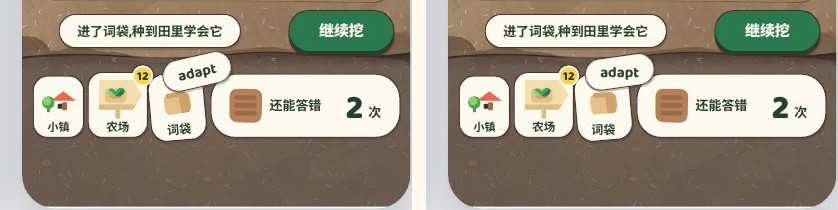
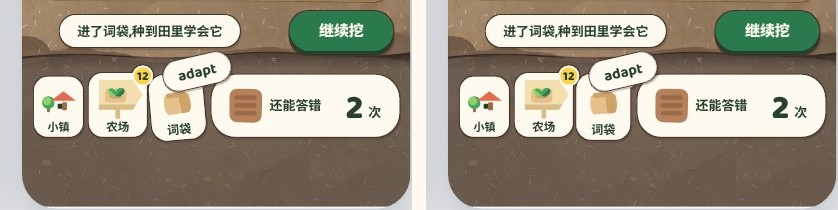
Straighten the bag button and tilt the falling word tag again
The previous change misread the owner: the falling word tag is meant to
stay tilted, text included, and it is the bag button that should sit
upright. The button now only grows to 1.1x when a missed word drops in,
and the tag is back to its 13 degree tilt. Decision 0030 and the docs
state the corrected rule.

Claude-Session: https://claude.ai/code/session_01KLGgNjxFgtRsY37w3UzLNc

diff --git a/docs/design/cel-screens/cel-screens.js b/docs/design/cel-screens/cel-screens.js
@@ -378,34 +378,24 @@
   }
   /**
    * 矿洞底部的那一排:小镇、去农场的路牌、词袋、还能答错几次。排法和彩纸那一屏(../mine-screens/screens.js 的 bar)相同。
-   * 自己排一遍只为了一处:pop 为真时(词刚掉进词袋)词袋的按钮弹一下,彩纸是整张连图标带字一起歪;
-   * 这里只让纸片歪,图标、"词袋"两个字和角标都是正的(负责人 2026-11-22:卡片可以歪,上面的文字和图标不歪)。
+   * 自己排一遍只为了一处:pop 为真时(词刚掉进词袋)词袋的按钮弹一下,彩纸是放大再歪 5 度;
+   * 这里只放大,不歪(负责人 2026-11-22:词袋正过来。按钮上有字和图标,歪了不好认)。
    */
   function mineBar(sc, pop) {
     var L = new k.Layer(),
-      bag = sc.bag.length,
       x = 12;
     L.add(k.tool(x, 714, '小镇', S.kit.townIcon));
     x += 55;
     L.add(k.signpost(x, 710, '农场', k.farmIcon, sc.thirsty || null, 1));
     x += 64;
-    if (!pop) L.add(k.tool(x, 714, '词袋', k.wordBagIcon, bag || null));
-    else {
-      // 弹一下:绕按钮下半截的一点放大到 1.1 倍;纸片另外再转 -5 度
-      var px = x + 24,
-        py = 744,
-        up = 'translate(' + K.f(-px * 0.1) + ' ' + K.f(-py * 0.1) + ') scale(1.1)',
-        a = (-5 * Math.PI) / 180,
-        // 角标跟着纸片的右上角走,但它自己不转
-        bx = (x + 45 - px) * 1.1,
-        by = (717 - py) * 1.1,
-        b = k.badge(px + bx * Math.cos(a) - by * Math.sin(a), py + bx * Math.sin(a) + by * Math.cos(a), bag);
-      L.s +=
-        g('rotate(-5 ' + px + ' ' + py + ') ' + up, K.rrect(x, 714, 49, 60, 14, K.C.white)) +
-        g(up, k.wordBagIcon(x + 24.5, 714 + 60 * 0.39)) +
-        b.shape;
-      L.t += g(up, K.txt(x + 24.5, 714 + 60 - 5.4, '词袋', 11, K.C.ink, { a: 'middle', w: 700 })) + b.text;
+    var b = k.tool(x, 714, '词袋', k.wordBagIcon, sc.bag.length || null);
+    if (pop) {
+      // 绕按钮下半截的一点放大到 1.1 倍
+      var up = 'translate(' + K.f(-(x + 24) * 0.1) + ' -74.4) scale(1.1)';
+      b.shape = g(up, b.shape);
+      b.text = g(up, b.text);
     }
+    L.add(b);
     x += 59;
     L.add(k.roomPlate(x, 712, 378 - x, 62, sc.allowance));
     return L.out();
@@ -490,8 +480,8 @@
       var wt = S.kit.pill(0, 0, v.word, 15, K.C.white, K.C.ink, 13, 30);
       U.add(S.kit.pill(128, 652, '进了词袋,种到田里学会它', 13, K.C.white, K.C.ink, 15, 32));
       U.add(S.kit.button(268, 648, 104, 40, '继续挖', true));
-      // 落向词袋的小纸签:纸片歪着,上面的词是正的(歪 8 度,再歪长一点的词会探出纸片)
-      over = g('translate(172 694)', g('rotate(-8 0 15)', wt.shape, K.SH) + wt.text);
+      // 落向词袋的小纸签:整张歪着,连上面的词一起(它是一个正在落下去的东西;负责人 2026-11-22 定的:这张可以歪)
+      over = g('translate(172 694) rotate(-13)', g('', wt.shape, K.SH) + wt.text);
     }
     o += g('', fx + top + cel(F.out()), ' class="ld-fx"');
     return o + cel(U.out() + K.hud(sc) + mineBar(now, st === 'miss') + over) + '</svg>';

diff --git a/docs/design/cel-screens/index.html b/docs/design/cel-screens/index.html
@@ -421,17 +421,17 @@
       <ul class="notes">
         <li><b>之前歪的有三处,</b>都是照彩纸那一屏来的:词牌歪 1.2 度;四条石板各歪不到 1 度,每条不一样;答错的那条再多歪 2.2 度。现在都是 0。</li>
         <li><b>答错的那条现在只靠坑和裂纹来认,</b>上一步刚把它画大。</li>
-        <li><b>答错时落向词袋的小纸签和弹一下的词袋按钮:</b>纸片可以歪,上面的字和图标是正的,见下面。</li>
+        <li><b>答错时落向词袋的小纸签照旧歪着;</b>弹一下的词袋按钮正过来了,见下面。</li>
         <li><b>彩纸的那几屏没有动。</b>农场、牧场这两屏里没有歪着的带字的板子。割草那一屏的词牌和草垄到重做时按这一条来。</li>
       </ul>
 
-      <h3>纸片可以歪,上面的字和图标不歪</h3>
-      <p class="sub">负责人的意见(原话):"答错词袋那个卡片可以歪,但是上面的文字和图标不歪。"左边是之前的,右边是现在的。</p>
-      <div class="sheet"><img src="shots/mine-bag.jpg" alt="答错时的底部:之前词袋按钮和写着词的纸签连字带图标一起歪;现在只有纸片歪,字和图标是正的" loading="lazy" style="max-width:560px"></div>
+      <h3>词袋的按钮正过来</h3>
+      <p class="sub">负责人的意见(原话):"答错词袋那个卡片可以歪,但是上面的文字和图标不歪";"adapt 还是歪的,是词袋正过来"。左边是之前的,右边是现在的。</p>
+      <div class="sheet"><img src="shots/mine-bag.jpg" alt="答错时的底部:之前词袋按钮歪 5 度;现在是正的。写着 adapt 的纸签两边都是歪的" loading="lazy" style="max-width:560px"></div>
       <ul class="notes">
-        <li><b>词袋的按钮弹一下:</b>纸片放大到 1.1 倍、歪 5 度,和之前一样;图标、"词袋"两个字和角标只放大,不转。</li>
-        <li><b>落向词袋的小纸签:</b>纸片歪 8 度(之前是 13 度),上面的词是正的。减到 8 度是因为字不跟着转之后,13 度时长一点的词两头会探出纸片。</li>
-        <li><b>这一排是代码画的,</b>没有新出图。</li>
+        <li><b>词袋的按钮:</b>词掉进去时弹一下,之前是放大到 1.1 倍再歪 5 度,现在只放大,不歪。按钮上有图标和字。</li>
+        <li><b>落向词袋的小纸签(写着词的那张)照旧歪着,</b>连上面的词一起,13 度。它是一个正在落下去的东西。</li>
+        <li><b>中间我理解错过一次,</b>把两样都改成了"纸片歪、字不歪",已经改回来。这一排是代码画的,没有新出图。</li>
       </ul>
 
       <h3>答错的那条:三个候选</h3>

diff --git a/docs/design/cel-screens/README.md b/docs/design/cel-screens/README.md
@@ -42,7 +42,7 @@
 | [`mine-sprites.jpg`](shots/mine-sprites.jpg)、[`mine-misses.jpg`](shots/mine-misses.jpg) | 矿洞的素材一览;第一轮画错的四处 |
 | [`mine-redraw.jpg`](shots/mine-redraw.jpg) | 负责人看过之后改的:答完之后安静下来,之前和现在 |
 | [`mine-miss.jpg`](shots/mine-miss.jpg)、[`mine-miss-options.jpg`](shots/mine-miss-options.jpg) | 答错的那条石板:之前和现在;三个候选 |
-| [`mine-straight.jpg`](shots/mine-straight.jpg)、[`mine-bag.jpg`](shots/mine-bag.jpg) | 石板和词牌摆正;词袋的按钮和纸签只歪纸片、字和图标是正的。都是之前和现在 |
+| [`mine-straight.jpg`](shots/mine-straight.jpg)、[`mine-bag.jpg`](shots/mine-bag.jpg) | 石板和词牌摆正;词袋的按钮正过来。都是之前和现在 |
 | [`tone.jpg`](shots/tone.jpg) | 色调:第一版和现在的,三屏各一对 |
 | [`mine-cave.jpg`](shots/mine-cave.jpg) | 矿洞:左边是第一版,右边是现在的(同一张画,只调亮了地面) |
 | [`ground.jpg`](shots/ground.jpg) | 底色:农场和牧场各三张,彩纸、调之前、调之后(只有场景,没有界面) |
@@ -373,9 +373,9 @@
 
 - **之前歪的有三处,**都是照彩纸那一屏来的:词牌歪 1.2 度;四条石板各歪不到 1 度,每条不一样;答错的那条再多歪 2.2 度。现在都是 0。
 - **答错的那条现在只靠坑和裂纹来认。**
-- **答错时落向词袋的小纸签和弹一下的词袋按钮:**纸片可以歪,上面的字和图标是正的。负责人的原话:"答错词袋那个卡片可以歪,但是上面的文字和图标不歪。"
-  词袋的按钮纸片放大到 1.1 倍、歪 5 度,图标、"词袋"两个字和角标只放大不转;小纸签的纸片歪 8 度(之前 13 度,字不跟着转之后 13 度时长一点的词会探出纸片),词是正的。
-  见 [`mine-bag.jpg`](shots/mine-bag.jpg)(左边之前,右边现在;这一排是代码画的)。
+- **答错时落向词袋的小纸签照旧歪着,词袋的按钮正过来了。** 负责人的原话:"答错词袋那个卡片可以歪,但是上面的文字和图标不歪";"adapt 还是歪的,是词袋正过来"。
+  小纸签(写着词的那张)整张歪 13 度,连词一起,它是一个正在落下去的东西;词袋的按钮弹一下时之前是放大到 1.1 倍再歪 5 度,现在只放大。
+  中间我理解错过一次,把两样都改成了"纸片歪、字不歪",已经改回来。见 [`mine-bag.jpg`](shots/mine-bag.jpg)(左边之前,右边现在;这一排是代码画的)。
 - 彩纸的那几屏没有动。农场、牧场这两屏里没有歪着的带字的板子。割草那一屏到重做时按这一条来。
 
 **动过的地方(不是模型画出来的原样):**

diff --git a/docs/design/07-art-direction.md b/docs/design/07-art-direction.md
@@ -8,7 +8,7 @@
 > - **仍然有效的:** 排法、尺寸、每种状态怎么表示(干土加水滴、湿土、星带、收获标记、岩层的构图、房子在上草地在下)、字体、"不做什么"。新画风的画面就是照着这些重画的。
 > - **色板也仍然有效。** 负责人看过新画风的第一版之后定的:色调用彩纸的(第一版偏深、对比偏高)。新画面的草地、天、干土、湿土量出来和色板几乎一样。用色规则要逐条过:"蓝色只表示水"现在天也是浅蓝的。
 > - **状态的画法改了两处,新定了一处**([决策记录 0029](../decisions/0029-crop-states-in-sprites.md)):不生长不单独画,用健康的那张;枯萎是"蔫了但还能救",只发黄下垂,而且只有幼苗和成株两个阶段画,成熟的不画;死了的是一小堆干草,所有作物共用。下面"状态"一节写的还是彩纸的画法。
-> - **矿洞答完之后改安静了**(负责人 2026-11-22 看过用素材拼的矿洞之后定的:游戏效果太强会让学习分心,见[决策记录 0030](../decisions/0030-quiet-after-answer.md)和[新画风的画面](cel-screens/README.md#负责人看过之后改的答完之后要安静)):词牌右上角不再探出"会出的矿石";镐一直靠在洞的一角,不停到石板上;矿石留在挖开的洞里,名字和"运气好"写到最下面一行;答错的那条石板上的坑和裂纹画大了(仍然不用红色和叉);词牌和石板不歪了;字和图标永远是正的,弹一下、落下去的小纸片可以只歪纸片。下面"矿洞"一章写的还是原来的。
+> - **矿洞答完之后改安静了**(负责人 2026-11-22 看过用素材拼的矿洞之后定的:游戏效果太强会让学习分心,见[决策记录 0030](../decisions/0030-quiet-after-answer.md)和[新画风的画面](cel-screens/README.md#负责人看过之后改的答完之后要安静)):词牌右上角不再探出"会出的矿石";镐一直靠在洞的一角,不停到石板上;矿石留在挖开的洞里,名字和"运气好"写到最下面一行;答错的那条石板上的坑和裂纹画大了(仍然不用红色和叉);词牌、石板和弹一下的词袋按钮都不歪了,只有落向词袋的小纸签还歪着。下面"矿洞"一章写的还是原来的。
 > - **不再适用的:** "一句话"、原则 2 和 3、"形状"一章、"素材怎么做"。它们写的是彩纸。
 > - 彩纸的那几屏现在是布局稿:改排法先改它们,再按新画风重画。
 > - 按新画风重写本文之前,两边冲突的地方以决策记录 0028 和新画风的画面为准。

diff --git a/docs/decisions/0030-quiet-after-answer.md b/docs/decisions/0030-quiet-after-answer.md
@@ -50,7 +50,7 @@
 
 **有字的板子不歪,也是之后补的。** 负责人的原话:"我不想要词板或者卡片歪来歪去,影响阅读体验。"
 彩纸那一屏里的歪是为了像手贴的纸片;新画风里词牌和四条石板都摆正了。这一条不只管矿洞:以后带着要读的字的板子和卡片都不歪。
-规矩合起来是:**字和图标永远是正的;用来读的板子(词牌、选项)连板子也是正的;弹一下、落下去的小纸片可以只歪纸片。**
+规矩合起来是:**用来读的和用来点的(词牌、选项、按钮)都是正的;一张正在落下去的小纸签可以歪。**
 
 ## 理由
 
@@ -73,7 +73,7 @@
   如果做出来之后答对不够痛快,要回来调,调的是那一瞬间的动效,不是把东西放回选项上。
 - **旧词石板上露着的那点矿没有动。** 它是读题时石板上唯一的装饰(占 1.2%),也是一种矿石预告。负责人没有提到它。
 - **割草那一屏是同一种做法**(词牌探出能割的草,镰刀落在被点的那一垄上,词牌和草垄也是歪的),没有重做,到时候按这一条来。
-- **会动的小纸片可以歪,但上面的字和图标不歪。** 负责人之后补的(原话):"答错词袋那个卡片可以歪,但是上面的文字和图标不歪。"
-  答错时弹一下的词袋按钮和落向词袋的小纸签都是这样:纸片歪,字、图标、角标是正的。
+- **落下去的小纸签可以歪,按钮不歪。** 负责人之后补的(原话):"答错词袋那个卡片可以歪,但是上面的文字和图标不歪";"adapt 还是歪的,是词袋正过来"。
+  答错时落向词袋的那张写着词的小纸签整张歪着;词袋的按钮弹一下时只放大,不歪(彩纸那一屏是放大再歪 5 度)。
 - 美术规范的正文还是原来的写法,开头的说明里记了这一条,等重写时改。彩纸的那一屏没有动。
 - 没有问过任何目标用户。

diff --git a/docs/decisions/README.md b/docs/decisions/README.md
@@ -37,7 +37,7 @@
 | [0027](0027-no-text-on-pasture-alert-mark.md) | 牧场一屏上不写"够吃几顿""饿了几天",点草垛、饲料桶、小屋、鸡舍才看到;草垛和饲料桶见底时用一个墨绿色的感叹号 | 生效 |
 | [0028](0028-art-direction-illustrated-cel.md) | 美术方向改为偏插画的赛璐璐(线稿加平涂),人物和场景都用;排法、尺寸、状态的表示法不变;规范还没重写 | 生效,取代 0015 |
 | [0029](0029-crop-states-in-sprites.md) | 新画风里作物的四种样子:不生长不单独画(用健康的那张);枯萎是蔫了但还能救,只有幼苗和成株两个阶段画;死了是一堆干草,所有作物共用 | 生效 |
-| [0030](0030-quiet-after-answer.md) | 答完之后选项那一块要安静:镐留在洞边,矿石留在洞里,名字写到最下面一行,词牌上不预告矿石;字和图标永远是正的,词牌和选项的板子也是正的,弹一下的小纸片可以只歪纸片;游戏感靠一瞬间的动效(还没做) | 生效 |
+| [0030](0030-quiet-after-answer.md) | 答完之后选项那一块要安静:镐留在洞边,矿石留在洞里,名字写到最下面一行,词牌上不预告矿石;词牌、选项、按钮都是正的,只有落下去的小纸签可以歪;游戏感靠一瞬间的动效(还没做) | 生效 |
 
 ## 什么时候写一条
 
